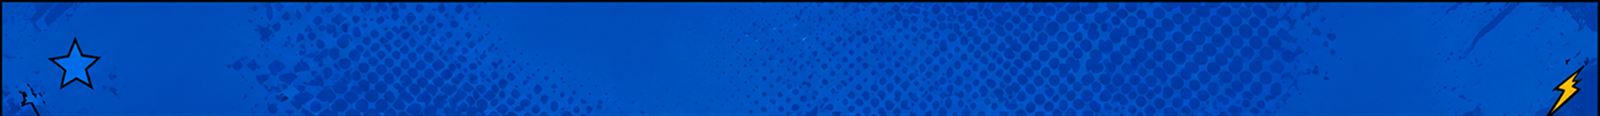
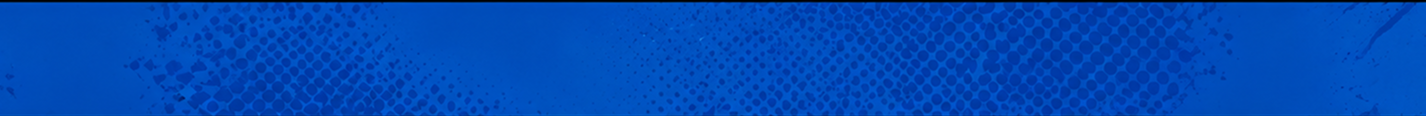
tela inicial do cliente

diff --git a/Front-End/css/style.css b/Front-End/css/style.css
@@ -1,0 +1,127 @@
+@import url('https://fonts.googleapis.com/css2?family=Boogaloo&display=swap');
+@import url('https://fonts.googleapis.com/css2?family=Balthazar&display=swap');
+@import url('https://fonts.googleapis.com/css2?family=Bangers&display=swap');
+
+
+header{
+    background-image: url(../imagens/Fundo\ superior.png);
+    background-size: cover;
+    background-position: center;
+    background-repeat: no-repeat;
+    width: 100%;
+    height: 116px;
+
+    display: flex;
+    flex-direction: column;
+    justify-content: flex-start;
+}
+
+.logo img{
+    width: 160px;
+    height: auto;
+    margin: 20px 0 0 50px ;
+}
+
+main{
+    width: 100%;
+    background-image: url(../imagens/fundo.png);
+    background-repeat: no-repeat;
+    background-size: 2000px auto;
+}
+
+section{
+    height: 100vh;
+}
+
+.titulo{
+    /* background-color: aquamarine; */
+    display: flex;
+    flex-direction: column;
+    justify-content: center;
+    align-items: center;
+    width: 400px;
+    height: 900px;
+
+    margin-left: auto;
+    margin-right: 220px;
+    padding: 20px;
+    border-radius: 8px;
+}
+
+.titulo1, .titulo2{
+    font-weight:900;
+    font-size: 150px;
+    line-height: 0.9;
+}
+
+.subtitulo{
+    font-family: "Boogaloo", sans-serif;
+    font-size: 30px;
+}
+
+.textoHamburguer{
+    font-family: "Balthazar", serif;
+    font-size: 22px;
+    text-align: center;
+}
+
+.catalogo{
+    background-color: #CCCCCC;/*9f9f9f*/
+    background: radial-gradient(
+    ellipse at center,
+    #f5f5f5 0%,
+    #b8b8b8 60%,
+    #9f9f9f 100%
+    );
+    width: 150px;
+    height: 50px;
+    border: #000000 solid 1px;
+    border-radius: 7px;
+    font-size: 20px;
+    margin-top: 30px;
+    cursor: pointer;
+}
+
+.sobre-nos {
+    display: flex;
+    flex-direction: column;
+    align-items: center;
+    margin-bottom: 50px;
+}
+
+
+.sobre-nos h2 {
+    font-family: "Bangers", cursive;
+    position: relative;
+   
+    align-self: flex-start;
+    margin-left: 410px;
+}
+
+.sobre-nos img{
+    width: 1100px;
+}
+
+footer {
+    margin-top: -50px;
+    background-image: url(../imagens/Fundo\ inferior.png);
+    background-size: cover;
+    background-position: center;
+    background-repeat: no-repeat;
+    width: 100%;
+    height: 100px;
+    display: flex;
+    flex-direction: row;
+    justify-content: center;
+    gap: 250px;
+}
+
+.dados {
+    display: flex;
+    flex-direction: row;
+    align-items: center;
+}
+
+.titulo1, .titulo2, .sobre-nos, footer{
+    font-family: "Bangers", system-ui;
+}

diff --git a/Front-End/index.html b/Front-End/index.html
@@ -3,7 +3,11 @@
 <head>
     <meta charset="UTF-8">
     <meta name="viewport" content="width=device-width, initial-scale=1.0">
-    <link rel="stylesheet" href="./style.css">
+    <link rel="preconnect" href="https://fonts.googleapis.com">
+    <link rel="preconnect" href="https://fonts.gstatic.com" crossorigin>
+    <link href="https://fonts.googleapis.com/css2?family=Bangers&display=swap" rel="stylesheet">
+    <link rel="stylesheet" href="./css/resete.css">
+    <link rel="stylesheet" href="./css/style.css">
     <title>Honker Burguer - Hamburgueria Temática</title>
 </head>
 <body>
@@ -13,34 +17,38 @@
         </div>
     </header>
     <main>
-        <div class="titulo">
-            <h1>HONKER BURGUER</h1>
-            <h2>Sabores que salvam o dia</h2>
-            <p>Hambúgueres artesanais inspirados no universo dos quadrinhos</p>
-            <button id="btn-catalogo" class="catalogo">CATÁLOGO</button>
-        </div>
+        <section class="hero">
+            <div class="titulo">
+                <h1 class="titulo1">HONKER </h1>
+                <h1 class="titulo2">BURGUER</h1>
+                <h2 class="subtitulo">Sabores que salvam o dia</h2>
+                <p class="textoHamburguer">Hambúgueres artesanais inspirados no universo dos quadrinhos</p>
+                <button id="btn-catalogo" class="catalogo">CATÁLOGO</button>
+            </div>
+        </section>
+        
         <div class="sobre-nos">
             <h2>SOBRE NÓS</h2>
             <img src="./imagens/historia.png" alt="Nossa historia">
         </div>
     </main>
     <footer>
-        <div>
+        <div class="dados">
             <img src="./imagens/Phone.png" alt="Ícone de telefone">
             <div class="contatos">
                 <p>[phone redacted]</p>
                 <p>[email redacted]</p>
             </div>
         </div>
-        <div>
+        <div class="dados">
             <img src="./imagens/Location.png" alt="endereço">
             <p>Av. Marcel Fernando de Yuri</p>
         </div>
-        <div>
+        <div class="dados">
             <img src="./imagens/Speech Bubble.png" alt="redes sociais">
             <p>@honkerburguer.art</p>
         </div>
-        <div>
+        <div class="dados">
             <img src="./imagens/bat.png" alt="empresa">
             <p>DESENVOLVIDO POR ARCADIA SOFTWARES</p>
         </div>